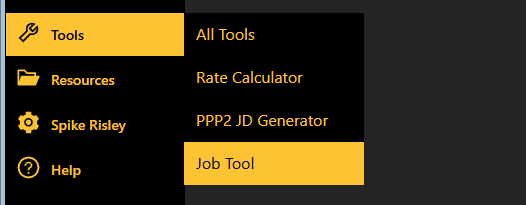
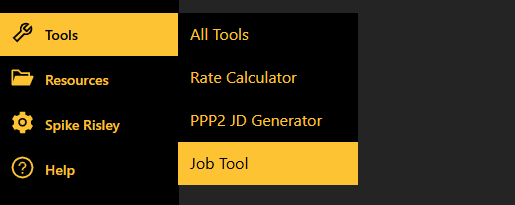
Scroll and docs answers

diff --git a/src/App.tsx b/src/App.tsx
@@ -15,6 +15,7 @@ import jobtool1 from './assets/jobtool-doc1.png'
 import jobtool2 from './assets/jobtool-doc2.png'
 import jobtool3 from './assets/jobtool-doc3.png'
 import jobtool4 from './assets/jobtool-doc4.png'
+import jobtool5 from './assets/jobtool-doc5.png'
 
 import rate_calc_1 from './assets/rate-calc-doc1.png'
 
@@ -22,14 +23,7 @@ function App() {
   let link1: contentsNavBarLink = { title: 'Overview', target: '#overview', children: [] }
   let link2: contentsNavBarLink = { title: 'Tools', target: '#tools', children: [{ title: 'Combined JD Generator', target: '#tools-jd-generator', children: [] }, { title: 'Job Uploader', target: '#tools-job-uploader', children: [] }, { title: 'Rate Calculator', target: '#tools-rate-calculator', children: [] }] }
   let links = [link1, link2];
-  let section = '';
-  let tempSection = window.location.href.split('?');
-  if (tempSection.length > 1) {
-    tempSection = tempSection[1].split('=');
-    if (tempSection.length > 1) {
-      section = (tempSection[1].toLowerCase());
-    }
-  }
+  const section = window.location.hash.slice(1).toLowerCase();
   //Sections
   const OverviewRef = useRef<HTMLHeadingElement>(null);
   const ToolsRef = useRef<HTMLHeadingElement>(null);
@@ -59,39 +53,16 @@ function App() {
   })
 
   useEffect(() => {
-    if (section === 'overview' && ToolsRef.current) {
-      const timer = setTimeout(() => {
-        goToOverview();
-      }, 100);
-
-      return () => clearTimeout(timer);
-    }
-    else if (section === 'tools' && ToolsRef.current) {
-      const timer = setTimeout(() => {
-        goToTools();
-      }, 100);
-
-      return () => clearTimeout(timer);
-    }
-    else if (section === 'jd-generator' && ToolsRef.current) {
-      const timer = setTimeout(() => {
-        goToJDGen();
-      }, 100);
-
-      return () => clearTimeout(timer);
-    }
-    else if (section === 'rate-calc' && ToolsRef.current) {
-      const timer = setTimeout(() => {
-        goToRateCalc();
-      }, 100);
-
-      return () => clearTimeout(timer);
-    }
-    else if (section === 'job-uploader' && ToolsRef.current) {
-      const timer = setTimeout(() => {
-        goToJobUploader();
-      }, 100);
-
+    const scrollFns: Record<string, () => void> = {
+      'overview': goToOverview,
+      'tools': goToTools,
+      'tools-jd-generator': goToJDGen,
+      'tools-rate-calculator': goToRateCalc,
+      'tools-job-uploader': goToJobUploader,
+    };
+    const fn = scrollFns[section];
+    if (fn) {
+      const timer = setTimeout(fn, 100);
       return () => clearTimeout(timer);
     }
   }, [section]);
@@ -149,75 +120,43 @@ function App() {
 
         <h2 ref={JDGenRef} id='tools-jd-generator'>Combined JD Generator</h2>
         <p>This tool is for generating Job Descriptions for People Panel Phase 2, Group 10 and Voak roles.
-          The tool is located here,
+          The tool is located <a href='https://recruitmenthivecloud.sharepoint.com/sites/RecruitmentHiveIntranet/SiteAssets/Intranet%20Navigation/dist/index.aspx#/tools/ppp2-job-generator'>here</a>,
         </p>
         <img src={ppp2_1} />
-        {/* height={400} */}
-        <p>Or <a href='https://recruitmenthivecloud.sharepoint.com/sites/RecruitmentHiveIntranet/SiteAssets/Intranet%20Navigation/dist/index.aspx#/tools/ppp2-job-generator'>here</a>.</p>
         <h3>Usage</h3>
         <p>
-          Drag the documents associated with the role into the box. Multiple documents can be uploaded. The document to upload depend on the job source. For PPP2 roles, upload the associated .docx and .pdf files. For Group 10 and Voak roles, drag in the email the role came in.
+          <b>1.</b> Drag the documents associated with the role into the box. Multiple documents can be uploaded. The document to upload depends on the job source. For PPP2 roles, upload the associated .docx and .pdf files. For Group 10 and Voak roles, upload the email the role came in.
         </p>
         <img src={ppp2_2} />
-        <p>Any uploaded documents will be listed below the box. </p>
+        <p><b>2.</b> Any uploaded documents will be listed below the box. </p>
         <img src={ppp2_3} />
-        <p>When the relevant documents are uploaded, enter the RFQ ID. The recruiter field should automatically set to your name, however if not you will have to select your name from the dropdown menu.</p>
+        <p><b>3.</b> When the relevant documents are uploaded, enter the RFQ ID. The Recruiter field should automatically set to your name, however if not you will have to select your name from the dropdown menu.</p>
         <img src={ppp2_4} />
-        <p>Once at least one document has been uploaded, the RFQ ID is set and a recruiter is selected, the Generate JD button will appear. Click this to generate the JD.</p>
+        <p><b>4.</b> Once at least one document has been uploaded, the RFQ ID is set and a recruiter is selected, the Generate JD button will appear. Click this to generate the JD.</p>
         <img src={ppp2_5} />
         <p>You can remove uploaded files by clicking on the red 'X'.</p>
         <img src={ppp2_6} />
         <h2 ref={JobUploader} id='tools-job-uploader'>Job Tool</h2>
-        <p>This extracts information from Recruitment Hive Job Descriptions and uploads the information to Sharepoint and Recruit Wizard.
+        <p>This tool extracts information from Recruitment Hive Job Descriptions and uploads the information to Sharepoint and Recruit Wizard.
         </p>
-        <p>You can remove uploaded files by clicking on the red 'X'.</p>
+        <p>You can find the Job Tool <a href='https://recruitmenthivecloud.sharepoint.com/sites/RecruitmentHiveIntranet/SiteAssets/Intranet%20Navigation/dist/index.aspx#/tools/job-tool'>here</a>.</p>
         <img src={jobtool1} />
-        <p>You can remove uploaded files by clicking on the red 'X'.</p>
+        <h3>Usage</h3>
+        <p><b>1.</b> Drag a completed Job Description into the tool.</p>
         <img src={jobtool2} />
-        <p>You can remove uploaded files by clicking on the red 'X'.</p>
+        <p><b>2.</b> The tool will extract information from the Job Description and display it. From here you can upload the Job Description to Sharepoint and Recruit Wizard.</p>
+        <img src={jobtool5} />
+        <p><b>3a.</b> Clicking "Create File Structure" will bring you to this page. From here you can edit the job information, as well as add additional files and the email the role came in. The new folders that will be created are displayed at the bottom. Clicking create file structure will create the new folders and insert the Job Description along with the additional files into the folder. </p>
         <img src={jobtool3} />
-        <p>You can remove uploaded files by clicking on the red 'X'.</p>
+        <p>If the upload is successful you can view the file in Sharepoint or click back to return to the screen at step 2.</p>
         <img src={jobtool4} />
-        <h2 ref={RateCalcRef} id='tools-rate-calculator'>Rate Calculator</h2>
-        <p>This tool is for calculating Rate Breakdowns for roles.
-          Navigate to the user interface,
-        </p>
-        <p>This tool is for calculating Rate Breakdowns for roles.
-          Navigate to the user interface,
-        </p>
-        <p>This tool is for calculating Rate Breakdowns for roles.
-          Navigate to the user interface,
-        </p>
-        <p>This tool is for calculating Rate Breakdowns for roles.
-          Navigate to the user interface,
-        </p>
-        <p>This tool is for calculating Rate Breakdowns for roles.
-          Navigate to the user interface,
-        </p><p>This tool is for calculating Rate Breakdowns for roles.
-          Navigate to the user interface,
-        </p>
-        <p>This tool is for calculating Rate Breakdowns for roles.
-          Navigate to the user interface,
-        </p>
-        <p>This tool is for calculating Rate Breakdowns for roles.
-          Navigate to the user interface,
-        </p>
+        <p><b>3b.</b>"Upload to Recruit Wizard" is currentley in development. </p>
 
-        <p>This tool is for calculating Rate Breakdowns for roles.
-          Navigate to the user interface,
-        </p>
-        <p>This tool is for calculating Rate Breakdowns for roles.
-          Navigate to the user interface,
-        </p>
-        <p>This tool is for calculating Rate Breakdowns for roles.
-          Navigate to the user interface,
-        </p>
-        <p>This tool is for calculating Rate Breakdowns for roles.
-          Navigate to the user interface,
-        </p>
+        <h2 ref={RateCalcRef} id='tools-rate-calculator'>Rate Calculator</h2>
+
+        <p>You can find the Job Tool <a href='https://recruitmenthivecloud.sharepoint.com/sites/RecruitmentHiveIntranet/SiteAssets/Intranet%20Navigation/dist/index.aspx#/tools/rate-calculator'>here</a>.</p>
 
         <img src={rate_calc_1} />
-        <p>Or <a href='https://recruitmenthivecloud.sharepoint.com/sites/RecruitmentHiveIntranet/SiteAssets/Intranet%20Navigation/dist/index.aspx#/tools/rate-calculator'>here</a>.</p>
       </div>
     </div>
   )
